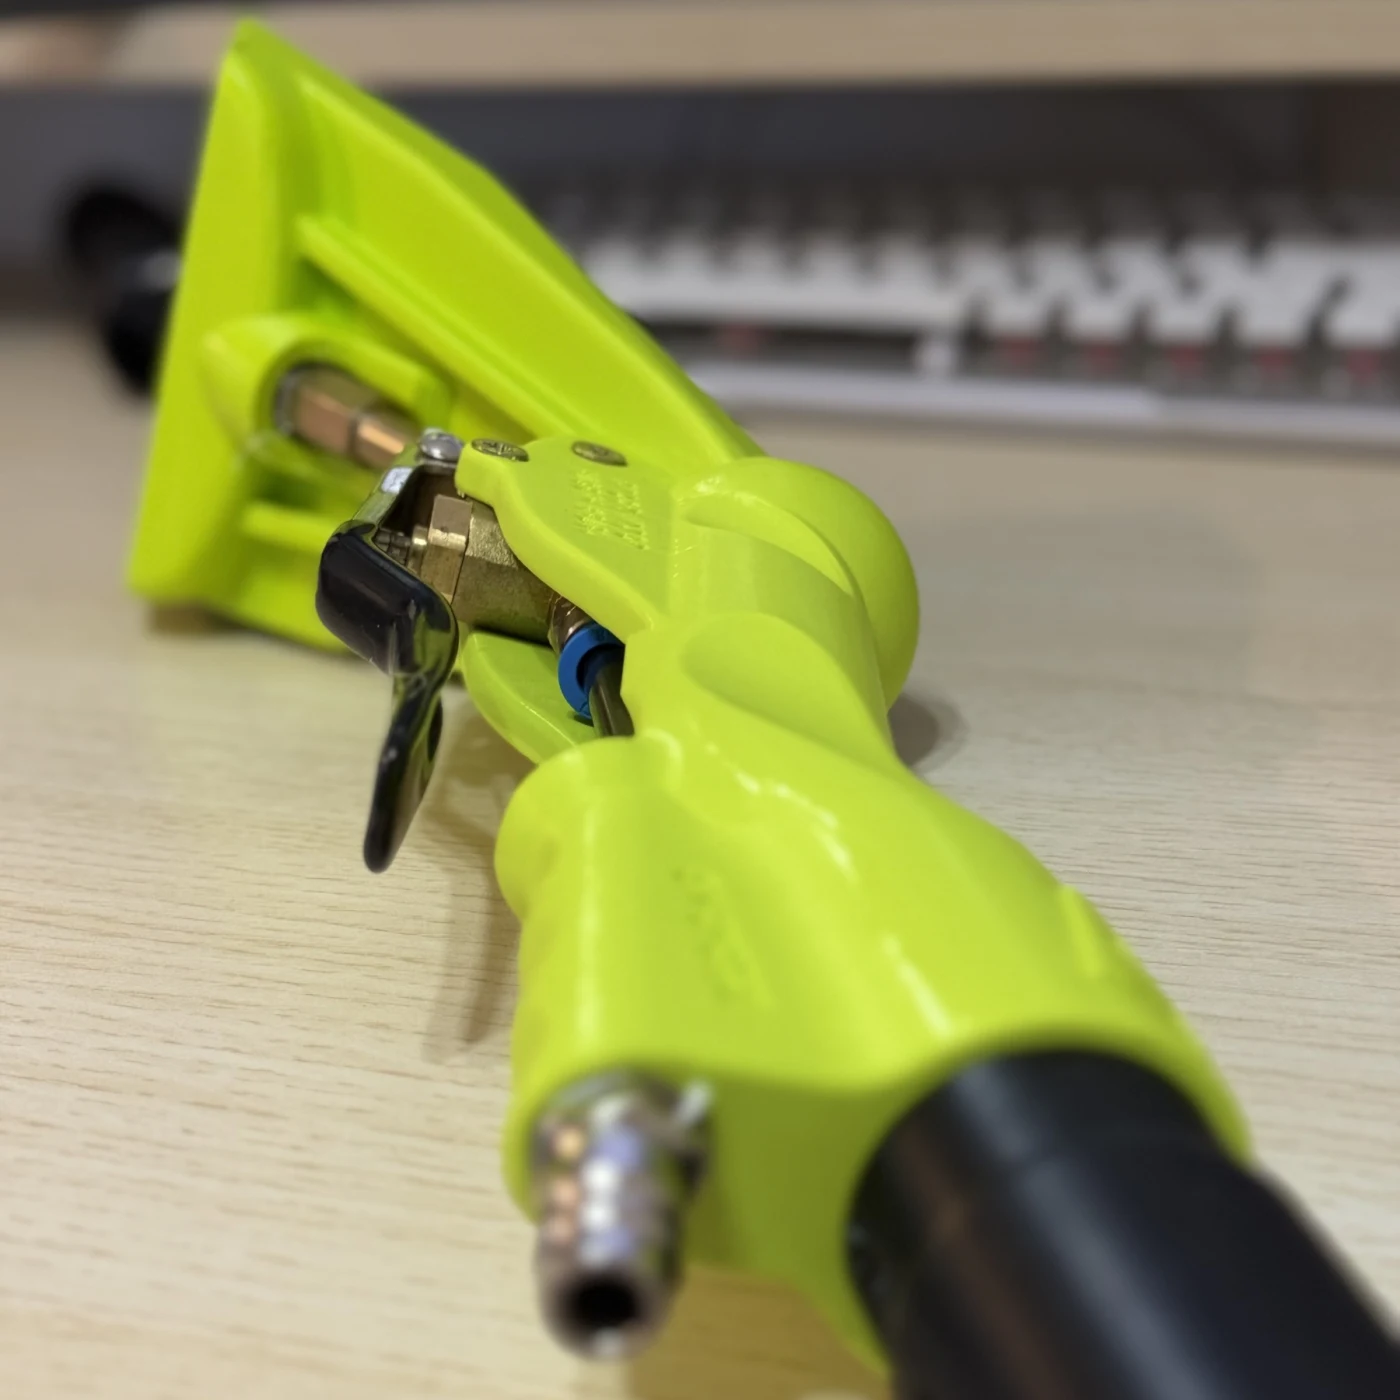
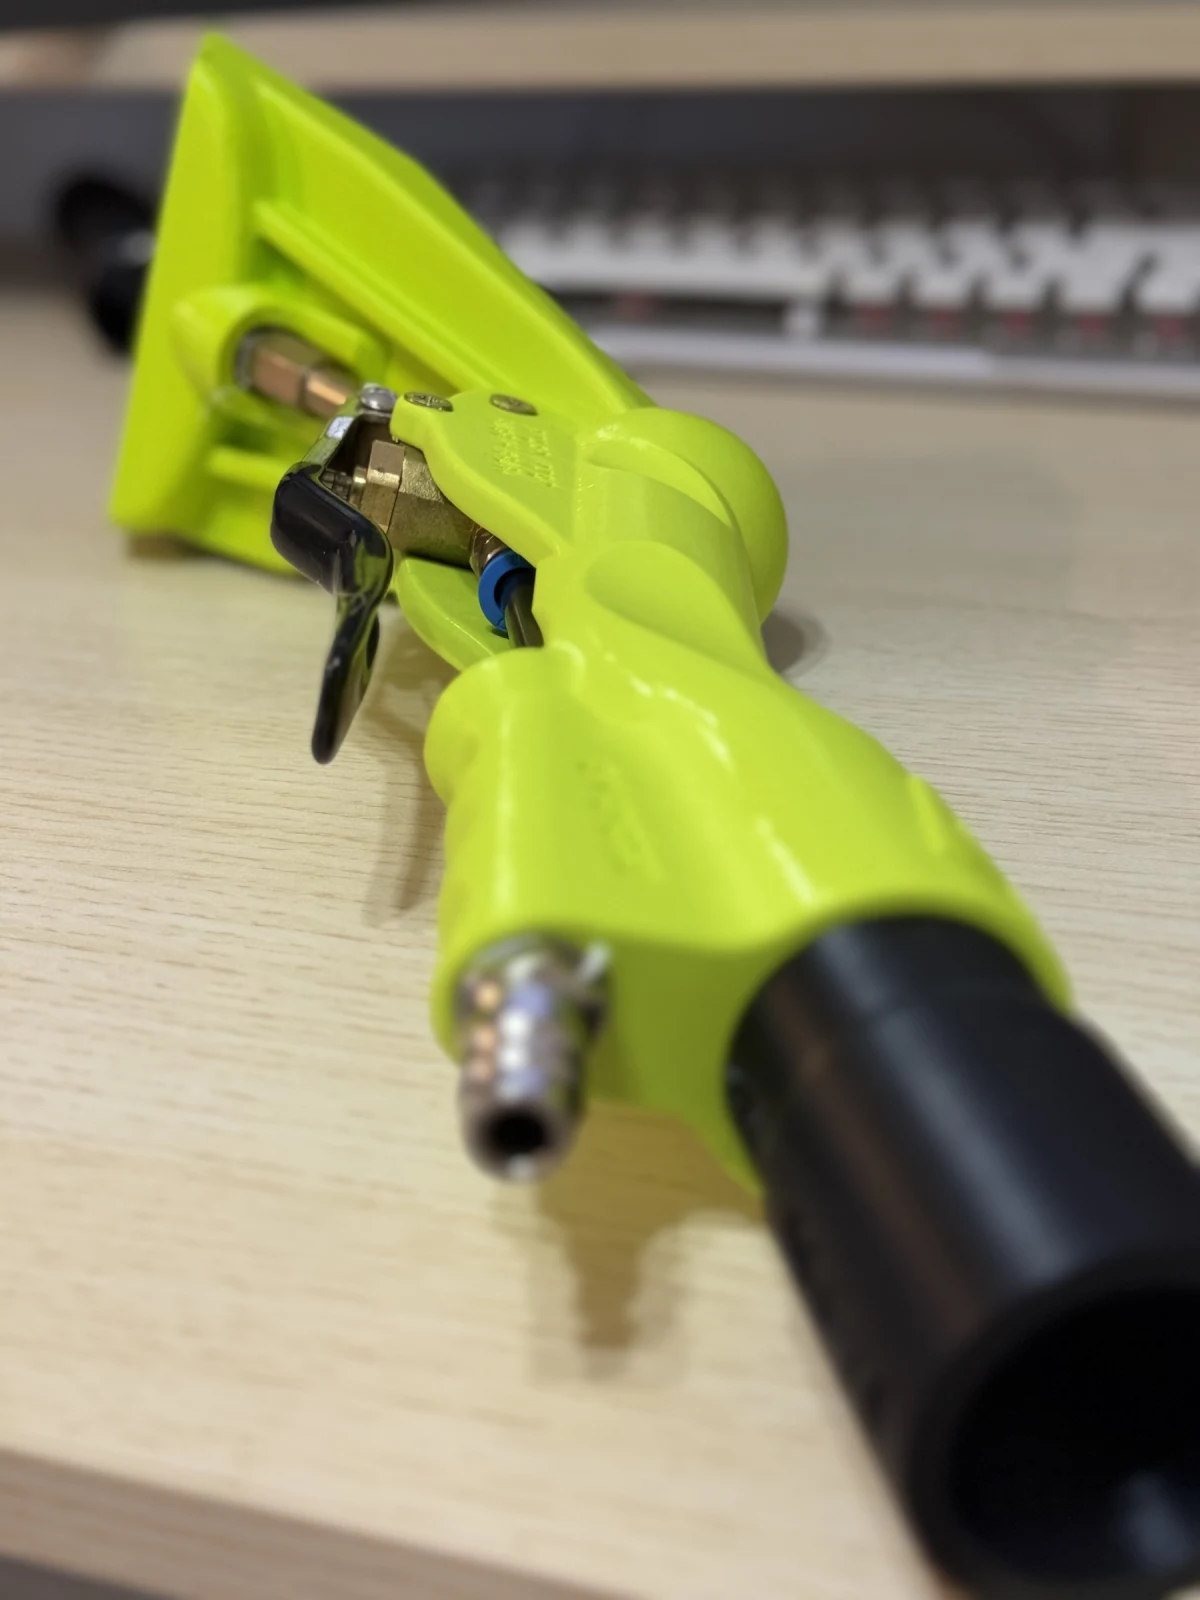
Show the ANACONDA photos as taken, uncropped
The photos go up as the shop sent them: full frame, original background,
nothing retouched and nothing cut away. Only the resize to web size stays,
because a phone frame outweighs the rest of the page and a slow shop is
one nobody reaches the product in.

Product frames therefore contain the image rather than cover it, so the
whole photograph is visible instead of the browser cropping a portrait
picture to fit a square. The numbered placeholders are square, so they
look the same either way.

Claude-Session: https://claude.ai/code/session_015YBVrgsSzM8y72Pw1w3VS9

diff --git a/src/components/ProductCard.tsx b/src/components/ProductCard.tsx
@@ -30,7 +30,7 @@ export function ProductCard({ product, priority = false }: { product: Product; p
           loading={priority ? 'eager' : 'lazy'}
           priority={priority}
           sizes="(min-width: 1024px) 25vw, 45vw"
-          className="object-cover transition-transform duration-500 group-hover:scale-[1.04]"
+          className="object-contain transition-transform duration-500 group-hover:scale-[1.04]"
         />
         {product.badge ? (
           <span className="absolute top-1.5 start-1.5 rounded-full bg-brand-500 px-2 py-0.5 text-[10px] font-bold text-white">

diff --git a/src/components/ProductGallery.tsx b/src/components/ProductGallery.tsx
@@ -21,7 +21,7 @@ export function ProductGallery({ images, productName }: ProductGalleryProps) {
           fill
           priority
           sizes="(min-width: 1024px) 50vw, 100vw"
-          className="animate-rise object-cover"
+          className="animate-rise object-contain"
         />
       </div>
 

diff --git a/scripts/product-photos.py b/scripts/product-photos.py
@@ -4,49 +4,34 @@ Prepares the photos in photos/source/ for the catalogue.
     pip install numpy opencv-python-headless
     python3 scripts/product-photos.py
 
-The photos are used as shot. The only changes are ones the browser would make
-anyway: a square crop, because every product frame on the site is square and
-would otherwise crop the picture itself at an arbitrary place, and a resize to
-web size in WebP, because a 2400px phone JPEG is several times the weight of
-the whole page.
+The photos go up exactly as they were taken: the full frame, the original
+background, nothing retouched, nothing cropped.
 
-The crop is centred on the tool rather than on the frame, so it is not cut off
-in shots where it sits to one side. That is found from the shell's colour: it
-is a single extremely saturated yellow-green that nothing else in the room
-comes near.
+The one thing that does happen is a resize to web size in WebP. That is the
+same picture — a phone frame is several thousand pixels wide and weighs more
+than the whole rest of the page, which on a phone means the shop is slow to
+load before anybody sees the product at all.
 """
 
 import os
 import cv2
-import numpy as np
 
 ROOT = os.path.dirname(os.path.dirname(os.path.abspath(__file__)))
 SOURCE = os.path.join(ROOT, 'photos', 'source')
 DEST = os.path.join(ROOT, 'public', 'products', 'anx-anaconda')
 
-SIZE = 1400
+LONGEST_SIDE = 1600
 ORDER = ['anaconda-4.jpg', 'anaconda-1.jpg', 'anaconda-2.jpg', 'anaconda-3.jpg']
 
 
-def subject_centre(img):
-    """Middle of the yellow-green shell, or of the frame if it is not found."""
-    hsv = cv2.cvtColor(img, cv2.COLOR_BGR2HSV)
-    h, s, v = hsv[..., 0].astype(int), hsv[..., 1].astype(int), hsv[..., 2].astype(int)
-    m = ((h > 25) & (h < 50) & (s > 110) & (v > 90)).astype(np.uint8)
-
-    ys, xs = np.nonzero(m)
-    if len(ys) < 0.01 * img.size / 3:
-        return img.shape[1] // 2, img.shape[0] // 2
-    return (xs.min() + xs.max()) // 2, (ys.min() + ys.max()) // 2
-
-
-def square(img):
+def web_size(img):
+    """Same frame, fewer pixels."""
     height, width = img.shape[:2]
-    side = min(height, width)
-    cx, cy = subject_centre(img)
-    x = int(np.clip(cx - side // 2, 0, width - side))
-    y = int(np.clip(cy - side // 2, 0, height - side))
-    return cv2.resize(img[y:y + side, x:x + side], (SIZE, SIZE), interpolation=cv2.INTER_AREA)
+    scale = LONGEST_SIDE / max(height, width)
+    if scale >= 1:
+        return img
+    return cv2.resize(img, (round(width * scale), round(height * scale)),
+                      interpolation=cv2.INTER_AREA)
 
 
 def main():
@@ -57,9 +42,11 @@ def main():
         if img is None:
             raise SystemExit(f'missing source photo: {filename}')
 
+        out = web_size(img)
         target = os.path.join(DEST, f'{index}.webp')
-        cv2.imwrite(target, square(img), [cv2.IMWRITE_WEBP_QUALITY, 88])
-        print(f'{os.path.relpath(target, ROOT)}  {os.path.getsize(target) // 1024} KB')
+        cv2.imwrite(target, out, [cv2.IMWRITE_WEBP_QUALITY, 88])
+        print(f'{os.path.relpath(target, ROOT)}  {out.shape[1]}x{out.shape[0]}  '
+              f'{os.path.getsize(target) // 1024} KB')
 
 
 if __name__ == '__main__':
